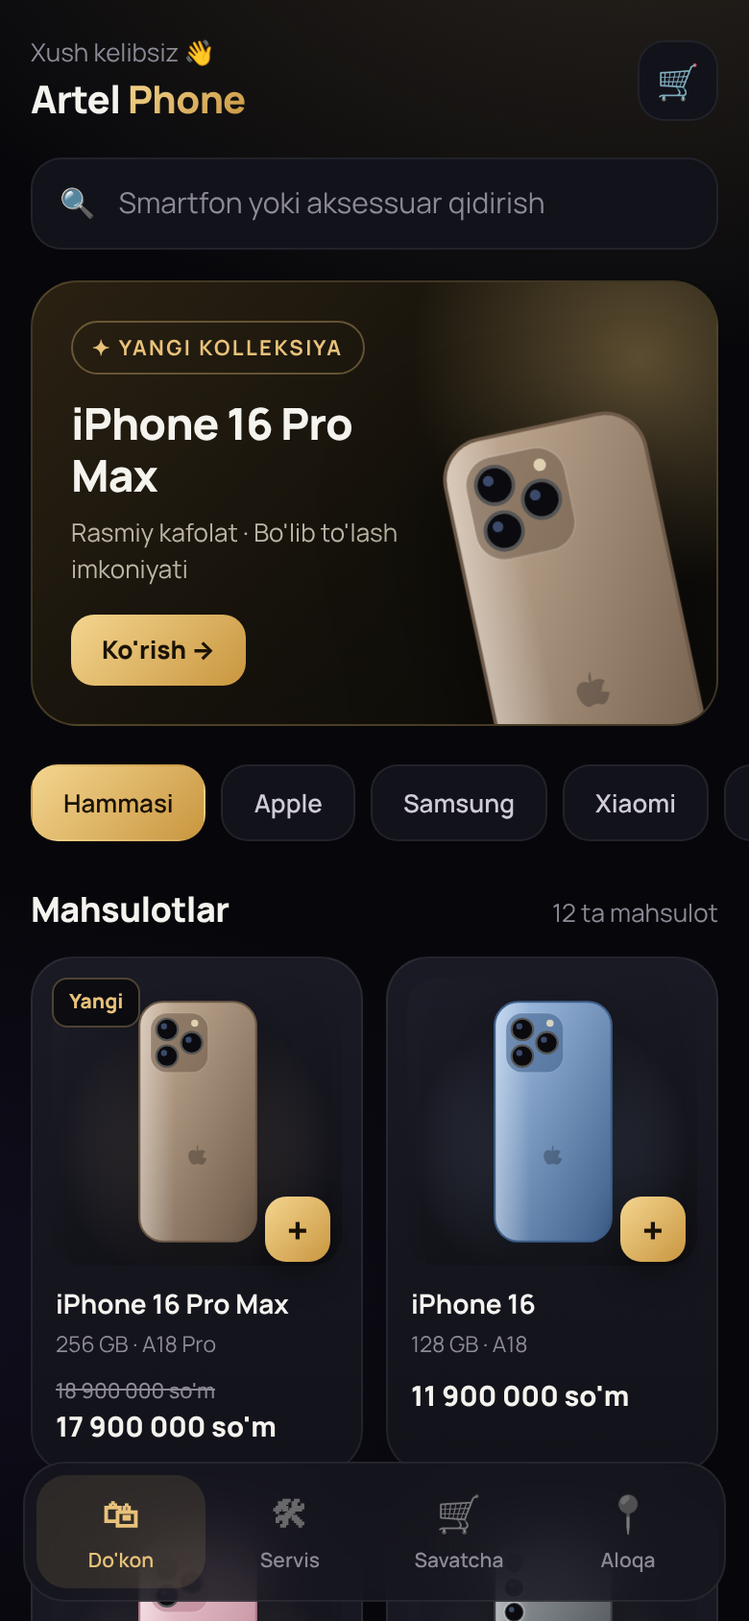
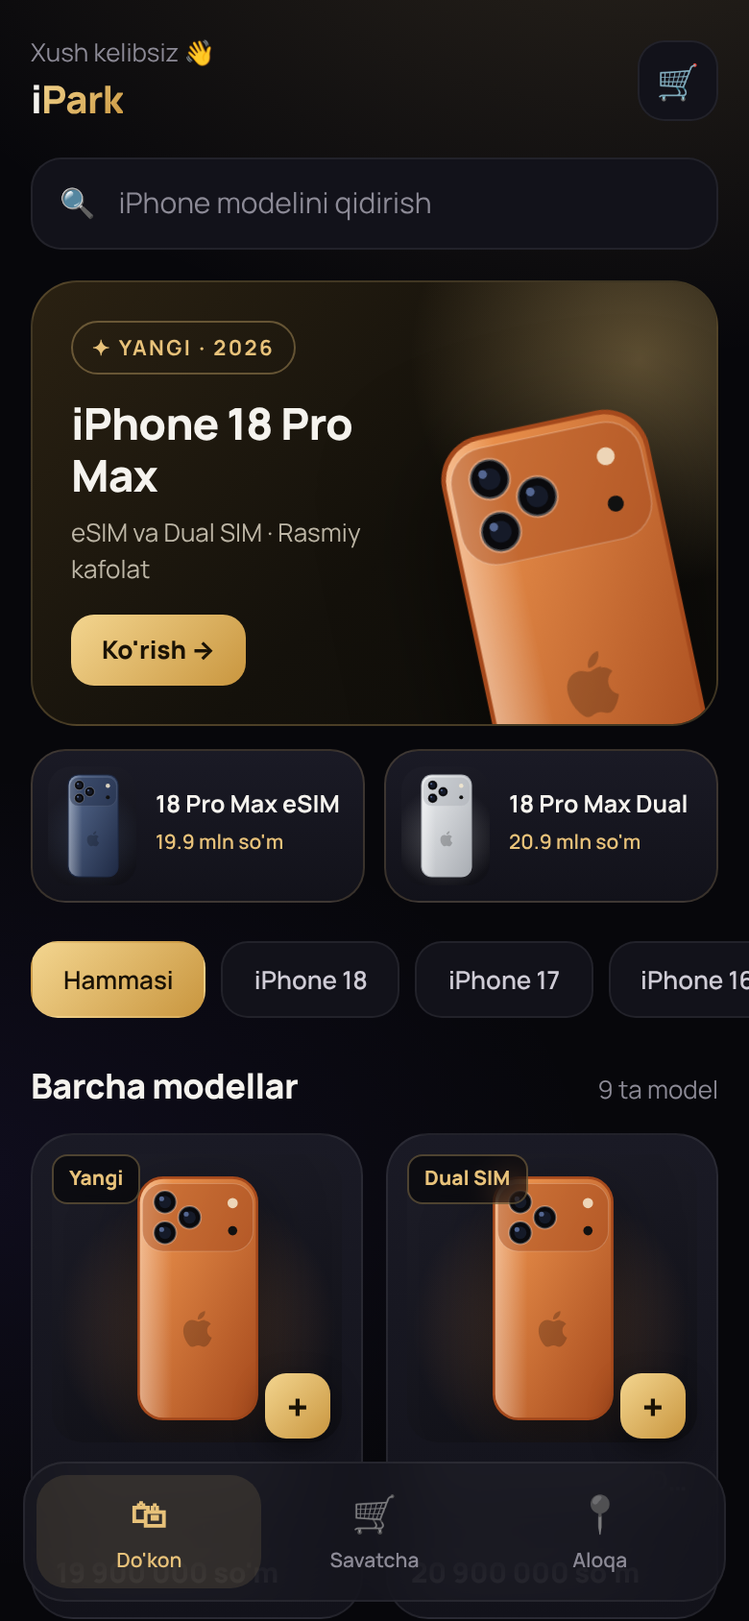
Rebrand shop as iPark: iPhone-only catalog with 18 Pro Max eSIM/Dual SIM first, variant picker
Claude-Session: https://claude.ai/code/session_015M1PyYuJpngVJYXy8yuTGy

diff --git a/shop_app/static/index.html b/shop_app/static/index.html
@@ -3,7 +3,7 @@
 <head>
 <meta charset="utf-8">
 <meta name="viewport" content="width=device-width, initial-scale=1, maximum-scale=1, viewport-fit=cover">
-<title>Phone Store</title>
+<title>iPark</title>
 <script src="https://telegram.org/js/telegram-web-app.js"></script>
 <link rel="preconnect" href="https://fonts.googleapis.com">
 <link href="https://fonts.googleapis.com/css2?family=Manrope:wght@400;500;600;700;800&display=swap" rel="stylesheet">
@@ -95,7 +95,16 @@ button{cursor:pointer}
 .seg button{flex:1;padding:10px;border-radius:12px;font-weight:700;font-size:13px;color:var(--muted)}
 .seg button.on{background:var(--card2);color:var(--gold);border:1px solid rgba(232,194,122,.25)}
 .empty{text-align:center;padding:60px 20px;color:var(--muted)} .empty b{display:block;font-size:56px;margin-bottom:10px}
-/* services */
+/* options */
+.opt{margin-top:18px} .opt>small{display:block;color:var(--muted);font-size:12px;font-weight:600;margin-bottom:8px}
+.ob{display:flex;flex-wrap:wrap;gap:8px}
+.ob button{padding:10px 14px;border-radius:13px;background:var(--card);border:1px solid var(--line);font-weight:700;font-size:13px}
+.ob button.on{border-color:var(--gold);color:var(--gold);background:rgba(232,194,122,.08)}
+.ob button small{display:block;font-size:10.5px;color:var(--muted);font-weight:600}
+.ob button.sw{width:38px;height:38px;padding:0;border-radius:50%;border:2px solid rgba(255,255,255,.12);box-shadow:inset 0 0 0 3px var(--bg)}
+.ob button.sw.on{border-color:var(--gold)}
+.cname{color:var(--muted);font-size:12px;margin-left:6px}
+/* x */
 .srv{display:flex;gap:14px;align-items:center;background:linear-gradient(180deg,var(--card2),var(--card));border:1px solid var(--line);border-radius:20px;padding:14px;margin-bottom:10px;animation:up .4s both}
 .srv .ic{width:48px;height:48px;border-radius:15px;display:grid;place-items:center;font-size:22px;background:rgba(232,194,122,.1);border:1px solid rgba(232,194,122,.2);flex:none}
 .srv .n{font-weight:700;font-size:14px} .srv .p{color:var(--gold);font-size:12.5px;font-weight:600;margin-top:2px}
@@ -103,13 +112,17 @@ button{cursor:pointer}
 .contact{background:var(--card);border:1px solid var(--line);border-radius:20px;padding:16px;margin-bottom:10px;display:flex;gap:14px;align-items:center}
 .toast{position:fixed;left:50%;top:18px;transform:translate(-50%,-80px);background:rgba(30,30,40,.95);border:1px solid rgba(232,194,122,.3);padding:12px 18px;border-radius:14px;font-weight:700;font-size:13px;z-index:20;transition:.35s;white-space:nowrap}
 .toast.show{transform:translate(-50%,0)}
+
+.duo{display:grid;grid-template-columns:1fr 1fr;gap:10px;margin-top:12px}
+.mini{display:flex;gap:10px;align-items:center;padding:8px;border-radius:18px;background:linear-gradient(180deg,var(--card2),var(--card));border:1px solid rgba(232,194,122,.18)}
+.mini .mv{width:46px;height:62px;border-radius:12px;display:grid;place-items:center;flex:none} .mini .mv svg{height:54px}
+.mini b{font-size:12.5px;display:block;line-height:1.2} .mini small{color:var(--gold);font-size:10.5px;font-weight:600}
 </style>
 </head>
 <body>
 <div id="app"></div>
 <nav class="nav">
   <a href="#/" data-k="home"><i>🛍</i>Do'kon</a>
-  <a href="#/services" data-k="services"><i>🛠</i>Servis</a>
   <a href="#/cart" data-k="cart"><i>🛒</i>Savatcha<span class="dot" id="navdot" hidden></span></a>
   <a href="#/contact" data-k="contact"><i>📍</i>Aloqa</a>
 </nav>
@@ -120,69 +133,79 @@ try { tg.ready(); tg.expand(); tg.setHeaderColor('#07070b'); tg.setBackgroundCol
 const $ = s => document.querySelector(s), $app = $('#app');
 const esc = s => String(s ?? '').replace(/[&<>"']/g, c => ({'&':'&amp;','<':'&lt;','>':'&gt;','"':'&quot;',"'":'&#39;'}[c]));
 const money = n => n.toLocaleString('ru-RU').replace(/ /g,' ') + " so'm";
-const store = { get(k,d){ try{ const v=localStorage.getItem('s_'+k); return v?JSON.parse(v):d; }catch(e){ return d; } },
-                set(k,v){ try{ localStorage.setItem('s_'+k, JSON.stringify(v)); }catch(e){} } };
+const mln = n => (n/1e6).toFixed(1).replace('.0','') + ' mln so\'m';
+const store = { get(k,d){ try{ const v=localStorage.getItem('ip_'+k); return v?JSON.parse(v):d; }catch(e){ return d; } },
+                set(k,v){ try{ localStorage.setItem('ip_'+k, JSON.stringify(v)); }catch(e){} } };
 const haptic = (t='light') => { try { tg.HapticFeedback.impactOccurred(t); } catch(e){} };
 let DB, cat = 'all', query = '', cart = store.get('cart', {}), delivery = false;
 
 function toast(msg){ const t = $('#toast'); t.textContent = msg; t.classList.add('show'); clearTimeout(t._h); t._h = setTimeout(()=>t.classList.remove('show'), 1800); }
-function cartCount(){ return Object.values(cart).reduce((a,b)=>a+b,0); }
+const byId = id => DB.products.find(x => x.id === id);
+const simList = p => p.sim ? [[p.sim, 0]] : DB.sims;
+// cart key: id|memIdx|simIdx|colorIdx
+function lineOf(key){
+  const [id, m, s, c] = key.split('|'); const p = byId(id);
+  if (!p || !p.mem[m] || !simList(p)[s] || !p.colors[c]) return null;
+  const sim = simList(p)[s];
+  return { p, mem:p.mem[m], sim, color:p.colors[c], price: p.price + p.mem[m][1] + (p.sim ? 0 : sim[1]) };
+}
+function cartCount(){ return Object.entries(cart).reduce((a,[k,q]) => a + (lineOf(k) ? q : 0), 0); }
 function saveCart(){ store.set('cart', cart); const d = $('#navdot'), c = cartCount(); d.hidden = !c; d.textContent = c; }
 
-// ---- Premium phone render (SVG) ----
-function phoneSvg(p, uid){
-  const [c1, c2] = p.colors, id = 'g' + uid;
-  const brand = p.cat;
-  let cam = '';
-  if (brand === 'apple') cam = `<rect x="14" y="14" width="56" height="58" rx="16" fill="${c2}" opacity=".55" stroke="rgba(255,255,255,.25)"/>
-    ${[[30,30],[30,56],[54,43]].map(([x,y])=>`<circle cx="${x}" cy="${y}" r="10.5" fill="#0b0b0f" stroke="#555" stroke-width="2"/><circle cx="${x-3}" cy="${y-3}" r="3" fill="#3b4a6b"/>`).join('')}
-    <circle cx="57" cy="24" r="3.5" fill="#f4e7c6" opacity=".8"/>`;
-  else if (brand === 'samsung') cam = [24,48,72].map(y=>`<circle cx="22" cy="${y}" r="9.5" fill="#0b0b0f" stroke="rgba(255,255,255,.35)" stroke-width="2"/><circle cx="19.5" cy="${y-2.5}" r="2.6" fill="#3b4a6b"/>`).join('') + `<circle cx="40" cy="22" r="3" fill="#f4e7c6" opacity=".7"/>`;
-  else cam = `<rect x="14" y="14" width="60" height="60" rx="18" fill="#111" stroke="rgba(255,255,255,.2)"/>
-    ${[[30,30],[58,30],[30,58],[58,58]].map(([x,y],i)=> i===3?`<circle cx="${x}" cy="${y}" r="4" fill="#f4e7c6" opacity=".7"/>`:`<circle cx="${x}" cy="${y}" r="10" fill="#050507" stroke="#666" stroke-width="2"/><circle cx="${x-3}" cy="${y-3}" r="2.6" fill="#3b4a6b"/>`).join('')}`;
+// ---- iPhone render (SVG) ----
+function lens(x, y, r){ return `<circle cx="${x}" cy="${y}" r="${r}" fill="#0a0a0d" stroke="rgba(255,255,255,.28)" stroke-width="2"/><circle cx="${x}" cy="${y}" r="${r*.55}" fill="#151a28"/><circle cx="${x-r*.3}" cy="${y-r*.3}" r="${r*.22}" fill="#5b6f9c" opacity=".9"/>`; }
+function phoneSvg(p, colorIdx, uid){
+  const [c1, c2] = p.colors[colorIdx || 0].c, id = 'g' + uid;
+  let cam;
+  if (p.cam === 'pro') cam = `<rect x="6" y="8" width="108" height="66" rx="20" fill="${c2}" opacity=".45"/><rect x="6" y="8" width="108" height="66" rx="20" fill="none" stroke="rgba(255,255,255,.18)"/>
+    ${lens(28,26,11)}${lens(28,56,11)}${lens(52,41,11)}<circle cx="94" cy="27" r="5" fill="#f6ead0" opacity=".85"/><circle cx="94" cy="54" r="4.5" fill="#111"/>`;
+  else if (p.cam === 'air') cam = `<rect x="6" y="10" width="108" height="34" rx="17" fill="${c2}" opacity=".45" stroke="rgba(255,255,255,.18)"/>${lens(26,27,11)}<circle cx="50" cy="27" r="3.2" fill="#111"/><circle cx="94" cy="27" r="4" fill="#f6ead0" opacity=".85"/>`;
+  else cam = `<rect x="12" y="12" width="34" height="66" rx="17" fill="${c2}" opacity=".5" stroke="rgba(255,255,255,.2)"/>${lens(29,29,11)}${lens(29,61,11)}<circle cx="54" cy="22" r="3.6" fill="#f6ead0" opacity=".85"/>`;
   return `<svg viewBox="0 0 120 240" xmlns="http://www.w3.org/2000/svg"><defs>
     <linearGradient id="${id}" x1="0" y1="0" x2="1" y2="1"><stop offset="0" stop-color="${c1}"/><stop offset="1" stop-color="${c2}"/></linearGradient>
-    <linearGradient id="${id}s" x1="0" y1="0" x2="1" y2="0"><stop offset="0" stop-color="#fff" stop-opacity=".35"/><stop offset=".3" stop-color="#fff" stop-opacity="0"/></linearGradient></defs>
-    <rect x="2" y="2" width="116" height="236" rx="24" fill="${c2}"/>
-    <rect x="4" y="4" width="112" height="232" rx="22" fill="url(#${id})"/>
-    <rect x="4" y="4" width="112" height="232" rx="22" fill="url(#${id}s)"/>
+    <linearGradient id="${id}s" x1="0" y1="0" x2="1" y2="0"><stop offset="0" stop-color="#fff" stop-opacity=".38"/><stop offset=".28" stop-color="#fff" stop-opacity="0"/></linearGradient></defs>
+    <rect x="1" y="1" width="118" height="238" rx="25" fill="${c2}"/>
+    <rect x="3.5" y="3.5" width="113" height="233" rx="23" fill="url(#${id})"/>
+    <rect x="3.5" y="3.5" width="113" height="233" rx="23" fill="url(#${id}s)"/>
     ${cam}
-    <text x="60" y="160" text-anchor="middle" font-family="Manrope,sans-serif" font-size="9" font-weight="700" fill="rgba(0,0,0,.28)" letter-spacing="2">${brand==='apple'?'':brand==='samsung'?'SAMSUNG':'XIAOMI'}</text>
-    ${brand==='apple'?`<path d="M60 150c-2-2.4-1.6-5.5.6-7.4M63.8 155c2.4-.2 4.4 1.2 5 1-1 3-3 6-5 6-1.6 0-2-1-3.8-1s-2.4 1-3.8 1c-2.4 0-5.4-5-5.4-9 0-3.4 2.4-5.4 4.6-5.4 1.6 0 2.8 1 3.8 1s2.6-1.2 4.4-1c1 0 2.8.4 4 2-1.6 1-2.6 2.6-2.6 4.6" fill="rgba(0,0,0,.25)"/>`:''}
+    <g transform="translate(60 150) scale(.95)" fill="rgba(0,0,0,.22)"><path d="M5.6-12.6c1.3-1.6 2.2-3.8 1.9-6-1.9.1-4.2 1.3-5.5 2.9-1.2 1.4-2.3 3.6-2 5.8 2.1.1 4.3-1.1 5.6-2.7zM7.5-9.4c-3.1-.2-5.7 1.7-7.2 1.7S-3.4-9.3-5.8-9.3c-3.1.1-6 1.8-7.6 4.6-3.2 5.6-.8 13.9 2.3 18.4 1.5 2.2 3.3 4.7 5.7 4.6 2.3-.1 3.1-1.5 5.9-1.5s3.5 1.5 5.9 1.4c2.5 0 4-2.2 5.5-4.4 1.7-2.5 2.4-5 2.5-5.1-.1 0-4.8-1.8-4.8-7.2 0-4.5 3.7-6.6 3.8-6.7-2.1-3.1-5.3-3.4-6.4-3.5z"/></g>
   </svg>`;
 }
-function visual(p, uid, cls='vis'){
-  const [c1, c2] = p.colors;
-  const bg = `background:radial-gradient(circle at 50% 60%, ${c1}40, transparent 62%),linear-gradient(160deg,#1d1d28,#101016)`;
-  return `<div class="${cls}" style="${bg}">${p.type==='phone' ? phoneSvg(p, uid) : `<span class="emo">${p.icon}</span>`}</div>`;
+function visual(p, colorIdx, uid, cls='vis'){
+  const c1 = p.colors[colorIdx || 0].c[0];
+  return `<div class="${cls}" style="background:radial-gradient(circle at 50% 60%, ${c1}44, transparent 62%),linear-gradient(160deg,#1d1d28,#101016)">${phoneSvg(p, colorIdx, uid)}</div>`;
 }
 
 // ---- Views ----
 function productCard(p, i){
   return `<a class="card" href="#/p/${p.id}" style="animation-delay:${i*40}ms">
-    ${p.badge?`<span class="badge">${esc(p.badge)}</span>`:''}${visual(p, 'c'+p.id)}
-    <div class="n">${esc(p.name)}</div><div class="s">${esc(p.specs.slice(0,2).join(' · '))}</div>
-    <div class="pr"><div>${p.old?`<span class="old">${money(p.old)}</span>`:''}<span class="price">${money(p.price)}</span></div>
-    <button class="add" onclick="event.preventDefault();addToCart('${p.id}')">+</button></div></a>`;
+    ${p.badge?`<span class="badge">${esc(p.badge)}</span>`:''}${visual(p, 0, 'c'+p.id)}
+    <button class="add" onclick="event.preventDefault();addToCart('${p.id}|0|0|0')">+</button>
+    <div class="n">${esc(p.name)}</div><div class="s">${esc(p.mem[0][0])} dan · ${p.colors.length} rang</div>
+    <div class="pr"><div>${p.old?`<span class="old">${money(p.old)}</span>`:''}<span class="price">${money(p.price)}</span></div></div></a>`;
 }
 function drawGrid(){
   const q = query.toLowerCase();
   const list = DB.products.filter(p => (cat==='all' || p.cat===cat) && (!q || p.name.toLowerCase().includes(q)));
   $('#grid').innerHTML = list.length ? list.map(productCard).join('') : '<div class="empty" style="grid-column:1/-1"><b>🔎</b>Hech narsa topilmadi</div>';
-  $('#cnt').textContent = list.length + ' ta mahsulot';
+  $('#cnt').textContent = list.length + ' ta model';
 }
 function viewHome(){
   const u = tg && tg.initDataUnsafe && tg.initDataUnsafe.user;
-  const hero = DB.products[0];
+  const [a, b] = DB.products;
   $app.innerHTML = `<div class="wrap">
-    <div class="top"><div><div class="hi">Xush kelibsiz${u?', '+esc(u.first_name):''} 👋</div><div class="logo">${esc(DB.shop.name.split(' ')[0])} <b>${esc(DB.shop.name.split(' ').slice(1).join(' '))}</b></div></div>
+    <div class="top"><div><div class="hi">Xush kelibsiz${u?', '+esc(u.first_name):''} 👋</div><div class="logo">i<b>Park</b></div></div>
       <a class="icon-btn" href="#/cart">🛒${cartCount()?`<span class="dot">${cartCount()}</span>`:''}</a></div>
-    <label class="search">🔍<input id="q" placeholder="Smartfon yoki aksessuar qidirish" value="${esc(query)}"></label>
-    <a class="hero" href="#/p/${hero.id}" style="display:block"><span class="tag">✦ Yangi kolleksiya</span>
-      <h1>${esc(hero.name)}</h1><p>Rasmiy kafolat · Bo'lib to'lash imkoniyati</p><span class="cta">Ko'rish →</span>
-      <div class="ph">${phoneSvg(hero,'hero')}</div></a>
+    <label class="search">🔍<input id="q" placeholder="iPhone modelini qidirish" value="${esc(query)}"></label>
+    <a class="hero" href="#/p/${a.id}" style="display:block"><span class="tag">✦ Yangi · 2026</span>
+      <h1>${esc(a.name)}</h1><p>eSIM va Dual SIM · Rasmiy kafolat</p><span class="cta">Ko'rish →</span>
+      <div class="ph">${phoneSvg(a, 0, 'hero')}</div></a>
+    <div class="duo">
+      <a href="#/p/${a.id}" class="mini">${visual(a,1,'m1','mv')}<div><b>18 Pro Max eSIM</b><small>${mln(a.price)}</small></div></a>
+      <a href="#/p/${b.id}" class="mini">${visual(b,2,'m2','mv')}<div><b>18 Pro Max Dual</b><small>${mln(b.price)}</small></div></a>
+    </div>
     <div class="chips">${DB.categories.map(c=>`<button class="chip ${c.id===cat?'on':''}" data-c="${c.id}">${esc(c.name)}</button>`).join('')}</div>
-    <div class="sec"><h2>Mahsulotlar</h2><span id="cnt"></span></div>
+    <div class="sec"><h2>Barcha modellar</h2><span id="cnt"></span></div>
     <div class="grid" id="grid"></div></div>`;
   drawGrid();
   $('#q').oninput = e => { query = e.target.value; drawGrid(); };
@@ -190,33 +213,46 @@ function viewHome(){
     document.querySelectorAll('.chip').forEach(x=>x.classList.toggle('on', x===b)); drawGrid(); };
 }
 function viewProduct(id){
-  const p = DB.products.find(x=>x.id===id); if(!p) return location.hash = '#/';
-  const labels = p.type==='phone' ? ['Xotira','Protsessor','Ekran','Kamera'] : ['','','',''];
-  $app.innerHTML = `<div class="wrap">
-    <a class="icon-btn back" href="javascript:history.back()">←</a>
-    ${visual(p,'big','pv')}
-    ${p.badge?`<span class="badge" style="position:static;display:inline-block">${esc(p.badge)}</span>`:''}
-    <div class="ptitle">${esc(p.name)}</div>
-    <div class="pprice"><span class="price">${money(p.price)}</span>${p.old?`<span class="old" style="display:inline">${money(p.old)}</span>`:''}</div>
-    <div class="specs">${p.specs.map((s,i)=>`<div class="spec">${labels[i]?`<small>${labels[i]}</small>`:''}${esc(s)}</div>`).join('')}</div>
-    <p class="pdesc">${esc(p.desc)}</p>
-    <div class="perks"><div class="perk"><b>🛡</b>Kafolat</div><div class="perk"><b>🚚</b>Yetkazish</div><div class="perk"><b>💳</b>Bo'lib to'lash</div></div>
-    <div class="sticky"><button class="bigbtn" onclick="addToCart('${p.id}')">🛒 Savatga qo'shish</button></div></div>`;
+  const p = byId(id); if(!p) return location.hash = '#/';
+  const sel = { m:0, s:0, c:0 };
+  const sims = simList(p);
+  const labels = ['Protsessor','Ekran','Kamera','Xususiyat'];
+  const draw = () => {
+    const ln = lineOf(`${p.id}|${sel.m}|${sel.s}|${sel.c}`);
+    $app.innerHTML = `<div class="wrap">
+      <a class="icon-btn back" href="javascript:history.back()">←</a>
+      ${visual(p, sel.c, 'big', 'pv')}
+      ${p.badge?`<span class="badge" style="position:static;display:inline-block">${esc(p.badge)}</span>`:''}
+      <div class="ptitle">${esc(p.name)}</div>
+      <div class="pprice"><span class="price">${money(ln.price)}</span>${p.old && !sel.m ?`<span class="old" style="display:inline">${money(p.old)}</span>`:''}</div>
+      <div class="opt"><small>Rang<span class="cname">${esc(p.colors[sel.c].n)}</span></small><div class="ob">${p.colors.map((c,i)=>`<button class="sw ${i===sel.c?'on':''}" data-k="c" data-i="${i}" style="background:linear-gradient(135deg,${c.c[0]},${c.c[1]})" aria-label="${esc(c.n)}"></button>`).join('')}</div></div>
+      <div class="opt"><small>Xotira</small><div class="ob">${p.mem.map((m,i)=>`<button class="${i===sel.m?'on':''}" data-k="m" data-i="${i}">${esc(m[0])}${m[1]?`<small>+${money(m[1])}</small>`:''}</button>`).join('')}</div></div>
+      <div class="opt"><small>SIM turi</small><div class="ob">${sims.map((s,i)=>`<button class="${i===sel.s?'on':''}" data-k="s" data-i="${i}">${s[0]==='eSIM'?'📶 eSIM':'📱 Dual SIM'}${s[1]?`<small>+${money(s[1])}</small>`:''}</button>`).join('')}
+        ${p.sim==='eSIM'?`<a href="#/p/${p.id}-dual" style="align-self:center;color:var(--gold);font-size:13px;font-weight:700;margin-left:4px">Dual SIM versiyasi →</a>`:''}</div></div>
+      <div class="specs">${p.specs.map((s,i)=>`<div class="spec"><small>${labels[i]}</small>${esc(s)}</div>`).join('')}</div>
+      <p class="pdesc">${esc(p.desc)}</p>
+      <div class="perks"><div class="perk"><b>🛡</b>Rasmiy kafolat</div><div class="perk"><b>✅</b>100% original</div><div class="perk"><b>💳</b>Bo'lib to'lash</div></div>
+      <div class="sticky"><button class="bigbtn" id="addb">🛒 Savatga qo'shish · ${money(ln.price)}</button></div></div>`;
+    document.querySelectorAll('[data-k]').forEach(b => b.onclick = () => { sel[b.dataset.k] = +b.dataset.i; haptic(); const y = scrollY; draw(); scrollTo(0, y); });
+    $('#addb').onclick = () => addToCart(`${p.id}|${sel.m}|${sel.s}|${sel.c}`);
+  };
+  draw();
 }
 function viewCart(){
-  const items = Object.entries(cart).map(([id,q])=>({p:DB.products.find(x=>x.id===id), q})).filter(x=>x.p);
+  const items = Object.entries(cart).map(([k,q]) => ({k, q, l:lineOf(k)})).filter(x => x.l);
   if (!items.length) { $app.innerHTML = `<div class="wrap"><div class="sec"><h2>Savatcha</h2></div><div class="empty"><b>🛒</b>Savatchangiz hozircha bo'sh<br><br><a class="bigbtn" href="#/">Xaridni boshlash</a></div></div>`; return; }
-  const total = items.reduce((s,x)=>s+x.p.price*x.q, 0);
+  const total = items.reduce((s,x)=>s+x.l.price*x.q, 0);
   const u = (tg && tg.initDataUnsafe && tg.initDataUnsafe.user) || {};
   const saved = store.get('form', {});
   $app.innerHTML = `<div class="wrap"><div class="sec"><h2>Savatcha</h2><span>${cartCount()} ta</span></div>
-    ${items.map(({p,q})=>`<div class="ci">${visual(p,'t'+p.id,'th')}<div class="info"><div class="n">${esc(p.name)}</div>
-      <div class="price" style="font-size:13.5px;margin-top:2px">${money(p.price*q)}</div>
-      <div class="qty"><button onclick="setQty('${p.id}',-1)">−</button><b>${q}</b><button onclick="setQty('${p.id}',1)">+</button></div></div></div>`).join('')}
+    ${items.map(({k,q,l})=>`<div class="ci">${visual(l.p, k.split('|')[3], 't'+k.replace(/\W/g,''), 'th')}<div class="info"><div class="n">${esc(l.p.name)}</div>
+      <div class="s" style="color:var(--muted);font-size:12px">${esc(l.mem[0])} · ${esc(l.color.n)} · ${esc(l.sim[0])}</div>
+      <div class="price" style="font-size:13.5px;margin-top:2px">${money(l.price*q)}</div>
+      <div class="qty"><button onclick="setQty('${k}',-1)">−</button><b>${q}</b><button onclick="setQty('${k}',1)">+</button></div></div></div>`).join('')}
     <div class="seg"><button class="${!delivery?'on':''}" onclick="delivery=false;viewCart()">🏬 Olib ketish</button><button class="${delivery?'on':''}" onclick="delivery=true;viewCart()">🚚 Yetkazish</button></div>
     <label class="field"><small>Ismingiz</small><input id="fn" value="${esc(saved.name || u.first_name || '')}" placeholder="Ism"></label>
     <label class="field"><small>Telefon raqam</small><input id="fp" type="tel" value="${esc(saved.phone || '+998 ')}" placeholder="+998 90 123 45 67"></label>
-    <label class="field"><small>${delivery?'Manzil va izoh':'Izoh (ixtiyoriy)'}</small><textarea id="fc" rows="2" placeholder="${delivery?'Shahar, ko\'cha, uy':'Masalan: rangi, xotira hajmi'}"></textarea></label>
+    <label class="field"><small>${delivery?'Manzil va izoh':'Izoh (ixtiyoriy)'}</small><textarea id="fc" rows="2" placeholder="${delivery?'Shahar, ko\'cha, uy':'Masalan: qachon kelasiz'}"></textarea></label>
     <div class="sum"><div><span>Mahsulotlar</span><span>${money(total)}</span></div><div><span>Yetkazib berish</span><span>${delivery?'Kelishiladi':'Bepul'}</span></div>
       <div class="t"><span>Jami</span><span>${money(total)}</span></div></div>
     <div class="sticky"><button class="bigbtn" id="ob">✓ Buyurtma berish</button></div></div>`;
@@ -227,10 +263,11 @@ async function submitOrder(){
   if (name.length < 2) return toast('✏ Ismingizni kiriting');
   if (phone.replace(/\D/g,'').length < 9) return toast('📞 Telefon raqamni kiriting');
   store.set('form', {name, phone});
+  const items = Object.entries(cart).map(([k,qty]) => { const l = lineOf(k); return l && {id:l.p.id, mem:l.mem[0], sim:l.sim[0], color:l.color.n, qty}; }).filter(Boolean);
   const b = $('#ob'); b.disabled = true; b.textContent = 'Yuborilmoqda...';
   try {
     const r = await fetch('/api/order', {method:'POST', headers:{'Content-Type':'application/json'},
-      body: JSON.stringify({initData: tg ? tg.initData : '', items:Object.entries(cart).map(([id,qty])=>({id,qty})), name, phone, comment, delivery})});
+      body: JSON.stringify({initData: tg ? tg.initData : '', items, name, phone, comment, delivery})});
     const d = await r.json();
     if (!d.ok) throw new Error(d.error);
     haptic('heavy'); cart = {}; saveCart();
@@ -239,24 +276,18 @@ async function submitOrder(){
       <a class="bigbtn" href="#/">Do'konga qaytish</a></div></div>`;
   } catch(e){ toast('⚠ ' + (e.message || 'Xatolik, qayta urining')); b.disabled = false; b.textContent = '✓ Buyurtma berish'; }
 }
-function viewServices(){
-  $app.innerHTML = `<div class="wrap"><div class="sec"><h2>Ta'mirlash va servis</h2></div>
-    <div class="hero" style="min-height:0;margin:0 0 14px"><span class="tag">✦ Usta-dasturchi</span><h1 style="max-width:100%;font-size:20px">Telefoningizni professional ustaga ishoning</h1>
-      <p style="max-width:100%">Tezkor diagnostika · Kafolatli ta'mir · Original ehtiyot qismlar</p></div>
-    ${DB.services.map((s,i)=>`<div class="srv" style="animation-delay:${i*40}ms"><div class="ic">${s.icon}</div><div><div class="n">${esc(s.name)}</div><div class="p">${esc(s.price)}</div></div></div>`).join('')}
-    <a class="bigbtn" style="margin-top:14px" href="https://t.me/${esc(DB.shop.telegram)}" onclick="return openTg(this.href)">💬 Ustaga yozish</a></div>`;
-}
 function viewContact(){
-  const s = DB.shop;
+  const s = DB.shop, nice = s.phone.replace(/(\+998)(\d\d)(\d{3})(\d\d)(\d\d)/,'$1 $2 $3 $4 $5');
   $app.innerHTML = `<div class="wrap"><div class="sec"><h2>Biz bilan aloqa</h2></div>
+    <div class="hero" style="min-height:0;margin:0 0 14px"><span class="tag">✦ iPark</span><h1 style="max-width:100%;font-size:20px">${esc(s.tagline)}</h1>
+      <p style="max-width:100%">Rasmiy kafolat · Bo'lib to'lash · Yetkazib berish</p></div>
     <div class="contact"><div class="cic">📍</div><div><b>Manzil</b><div class="hi">${esc(s.address)}</div></div></div>
-    <a class="contact" href="tel:${esc(s.phone)}"><div class="cic">📞</div><div><b>Telefon</b><div class="hi">${esc(s.phone.replace(/(\+998)(\d\d)(\d{3})(\d\d)(\d\d)/,'$1 $2 $3 $4 $5'))}</div></div></a>
-    <a class="contact" href="https://t.me/${esc(s.telegram)}" onclick="return openTg(this.href)"><div class="cic">✈</div><div><b>Telegram</b><div class="hi">@${esc(s.telegram)}</div></div></a>
-    <div class="contact"><div class="cic">🕘</div><div><b>Ish vaqti</b><div class="hi">Har kuni 09:00 – 20:00</div></div></div></div>`;
+    <a class="contact" href="tel:${esc(s.phone)}"><div class="cic">📞</div><div><b>Telefon</b><div class="hi">${esc(nice)}</div></div></a>
+    <div class="contact"><div class="cic">🕘</div><div><b>Ish vaqti</b><div class="hi">${esc(s.hours)}</div></div></div>
+    <a class="bigbtn" style="margin-top:14px" href="tel:${esc(s.phone)}">📞 Qo'ng'iroq qilish</a></div>`;
 }
-function openTg(url){ try { tg.openTelegramLink(url); return false; } catch(e){ return true; } }
-function addToCart(id){ cart[id] = (cart[id]||0) + 1; saveCart(); haptic('medium'); toast('✓ Savatga qo\'shildi'); const d=document.querySelector('.top .icon-btn'); if(d) d.innerHTML = `🛒<span class="dot">${cartCount()}</span>`; }
-function setQty(id, d){ cart[id] = (cart[id]||0) + d; if (cart[id] <= 0) delete cart[id]; saveCart(); haptic(); viewCart(); }
+function addToCart(key){ cart[key] = (cart[key]||0) + 1; saveCart(); haptic('medium'); toast('✓ Savatga qo\'shildi'); const d=document.querySelector('.top .icon-btn'); if(d) d.innerHTML = `🛒<span class="dot">${cartCount()}</span>`; }
+function setQty(k, d){ cart[k] = (cart[k]||0) + d; if (cart[k] <= 0) delete cart[k]; saveCart(); haptic(); viewCart(); }
 
 function route(){
   const parts = (location.hash.slice(1) || '/').split('/').filter(Boolean), k = parts[0] || 'home';
@@ -265,13 +296,12 @@ function route(){
   window.scrollTo(0,0);
   if (k==='p') return viewProduct(parts[1]);
   if (k==='cart') return viewCart();
-  if (k==='services') return viewServices();
   if (k==='contact') return viewContact();
   viewHome();
 }
 try { tg.BackButton.onClick(() => history.back()); } catch(e){}
 window.addEventListener('hashchange', route);
-fetch('/products.json').then(r=>r.json()).then(d => { DB = d; saveCart(); route(); })
+fetch('/products.json').then(r=>r.json()).then(d => { DB = d; for (const k in cart) if (!lineOf(k)) delete cart[k]; saveCart(); route(); })
   .catch(() => $app.innerHTML = '<div class="empty"><b>⚠</b>Yuklab bo\'lmadi. Qayta oching.</div>');
 </script>
 </body>

diff --git a/shop_app/server.py b/shop_app/server.py
@@ -60,14 +60,24 @@ async def order(request: web.Request) -> web.Response:
     user = check_init_data(body.get("initData", "")) if BOT_TOKEN else {"id": 0, "first_name": "Test"}
     if user is None:
         return web.json_response({"ok": False, "error": "Iltimos, ilovani Telegram ichida oching"}, status=403)
-    items = {p["id"]: p for p in catalog()["products"]}
+    cat = catalog()
+    items = {p["id"]: p for p in cat["products"]}
+    sims = dict(cat["sims"])
     lines, total = [], 0
     for it in body.get("items", [])[:50]:
         p = items.get(str(it.get("id")))
+        if not p:
+            continue
+        mem = dict(p["mem"])
+        m = str(it.get("mem", p["mem"][0][0]))
+        sim = p.get("sim") or str(it.get("sim", "eSIM"))
+        color = next((c["n"] for c in p["colors"] if c["n"] == it.get("color")), p["colors"][0]["n"])
+        if m not in mem or sim not in sims:
+            continue
+        price = p["price"] + mem[m] + (0 if p.get("sim") else sims[sim])
         qty = max(1, min(int(it.get("qty", 1)), 20))
-        if p:
-            total += p["price"] * qty
-            lines.append(f"• {p['name']} × {qty} — {money(p['price'] * qty)}")
+        total += price * qty
+        lines.append(f"• {p['name']} {m}, {color}, {sim} × {qty} — {money(price * qty)}")
     if not lines:
         return web.json_response({"ok": False, "error": "Savatcha bo'sh"}, status=400)
     name = str(body.get("name", ""))[:80]
@@ -101,7 +111,8 @@ async def handle_update(upd: dict):
     kb = {"inline_keyboard": [[{"text": "🛍 Do'konni ochish", "web_app": {"url": PUBLIC_URL}}]]} if PUBLIC_URL else None
     await tg("sendMessage", chat_id=chat,
              text=f"Assalomu alaykum, {name}! 👋\n\n✨ {shop['name']} — {shop['tagline']}.\n\n"
-                  "Smartfonlar, aksessuarlar va ta'mirlash xizmatlari — barchasi bitta ilovada.",
+                  "📱 iPhone 18 Pro Max, Dual SIM va boshqa modellar — rasmiy kafolat bilan.\n"
+                  f"📍 {shop['address']}\n📞 {shop['phone']}",
              **({"reply_markup": kb} if kb else {}))
 
 

diff --git a/shop_app/README.md b/shop_app/README.md
@@ -1,7 +1,7 @@
-# 🛍 Telefon do'koni — Telegram Mini App
+# 🛍 iPark — iPhone do'koni (Telegram Mini App)
 
-Premium qora-oltin dizayn. Katalog (Apple / Samsung / Xiaomi / Aksessuarlar), qidiruv, mahsulot sahifasi,
-savatcha, buyurtma berish (buyurtma sizga va mijozga Telegramda keladi), ta'mirlash xizmatlari, aloqa.
+Premium qora-oltin dizayn. Faqat iPhone: avval iPhone 18 Pro Max (eSIM) va iPhone 18 Pro Max Dual SIM, keyin qolgan modellar.
+Rang / xotira / SIM turini tanlash, savatcha, buyurtma (sizga va mijozga Telegramda keladi), aloqa.
 
 | Do'kon | Mahsulot | Savatcha |
 |---|---|---|
@@ -17,4 +17,4 @@ savatcha, buyurtma berish (buyurtma sizga va mijozga Telegramda keladi), ta'mirl
 Bot menyusidagi "🛍 Do'kon" tugmasi va webhook avtomatik sozlanadi.
 
 ## Mahsulot va narxlarni o'zgartirish
-`shop_app/static/products.json` faylini tahrirlang (nomi, narxi, rangi, xususiyatlari). Narxlar namuna sifatida berilgan.
+`shop_app/static/products.json` faylini tahrirlang (nomi, narxi, xotira narxlari, ranglar, manzil, telefon). Narxlar namuna sifatida berilgan.
